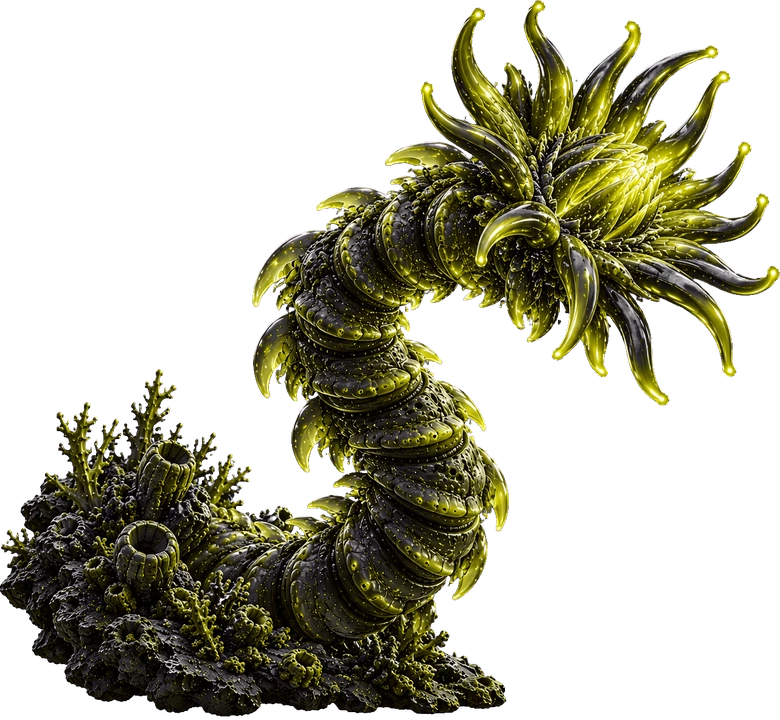
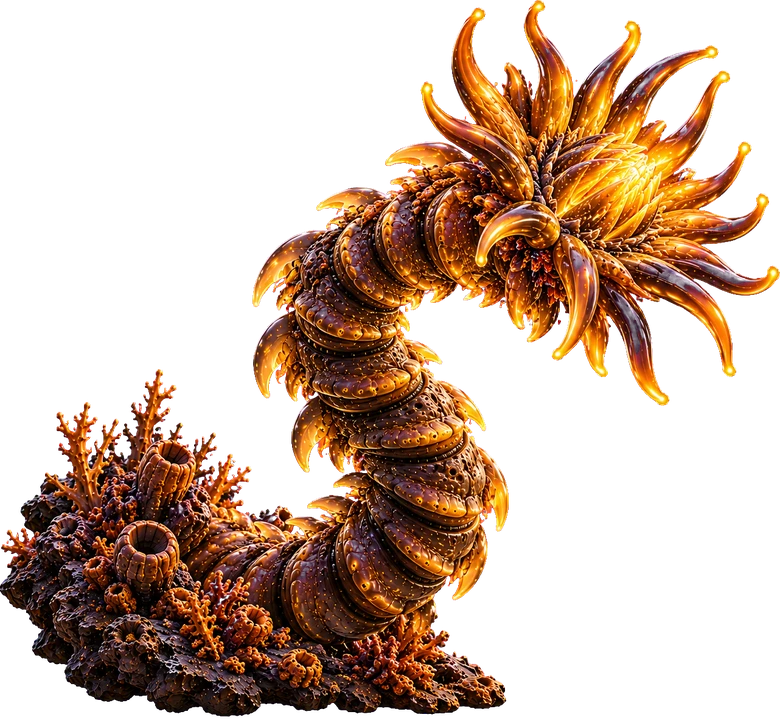
Пасть: модуль, интеграция, перекраска гидры
- js/maw.js: веха-пасть. Зубы у стен, отверстие по центру, смыкание
  по глубине (CLOSE_S, SIGNAL_LEAD). Пуля в зубы гаснет, в отверстие
  пролетает; касание зубов смертельно, щит спасает как от гидры.
- Подключение: index.html, sprites.js, game.js (reset/update/shots/
  hitTest/draw), growth.js (коралы не растут в полосе пасти).
- CONFIG.MAW: ширина 390 px, отверстие 86 -> 48 px.
- Спрайты maw_open/maw_closed, ключевание tools/key_maw.py.
- Гидра: исправлен magenta-despill (кромка only), перекрашена в медь,
  ключевание tools/key_hydra.py.

Симуляция: 32 пасти за 6 прогонов, центр проходим во всех 10 048
проверках, все пасти ставятся в передышке.

Claude-Session: https://claude.ai/code/session_01PpYFCjWNdNRrAcfmkbGt6g

diff --git a/js/maw.js b/js/maw.js
@@ -1,0 +1,168 @@
+// ===== maw.js =====
+// ============================================================
+// ПАСТЬ — веха. Перекрывает ущелье по ширине: зубы стоят у стен, между
+// ними отверстие по центру. По мере приближения дрона зубы сходятся.
+//
+// Правила прохождения (docs/tz_creatures_ru.md, согласованы):
+//   1. Проход всегда возможен, если войти по центру: отверстие не закрывается
+//      ниже HOLE_RX_MIN, то есть 96 px поперёк при дроне 36 px.
+//   2. Смыкание идёт CLOSE_S секунд падения (не меньше 0.5 с).
+//   3. Смыкание начинается до входа: сигнал виден заранее.
+//
+// Прогресс смыкания p — функция глубины, а не таймера. Значит, картинка и
+// хитбокс всегда показывают одно и то же состояние, и пауза ничего не ломает.
+// ============================================================
+
+const Maw = (() => {
+
+  const M = CONFIG.MAW;
+  const W = M.W_PX, HH = M.H_PX;
+  const DR = CONFIG.DRONE_RADIUS;
+
+  let list = [];            // {depth (центр в метрах), xc (центр отверстия, px), alive}
+  let nextSpawn = 0;
+  let armed = false;
+  let _pxPerM = 1;
+  let _v = 250;             // скорость падения, м/с — оценивается по ходу игры
+  let _lastDepth = null;
+
+  function reset() { list = []; nextSpawn = 0; armed = false; _lastDepth = null; }
+
+  function _span(pxPerM) { return HH / pxPerM; }
+
+  // Время смыкания в метрах падения при текущей скорости
+  function _closeM() { return M.CLOSE_S * _v; }
+
+  // Прогресс смыкания 0..1 по глубине дрона. Сигнал начинается заранее:
+  // при входе в пасть смыкание уже на SIGNAL_LEAD.
+  function _p(m, droneDepth, pxPerM) {
+    const top = m.depth - _span(pxPerM) / 2;
+    const cm = _closeM();
+    const start = top - M.SIGNAL_LEAD * cm;
+    let u = (droneDepth - start) / cm;
+    u = Math.max(0, Math.min(1, u));
+    return u * u * (3 - 2 * u);
+  }
+
+  // Полуширина отверстия при прогрессе p
+  function _rx(p) { return M.HOLE_RX + (M.HOLE_RX_MIN - M.HOLE_RX) * p; }
+
+  // ---------- появление ----------
+
+  // Можно ли поставить пасть с центром на глубине dc: вся высота в передышке
+  // и ущелье не уже ширины спрайта
+  function _fit(dc, pxPerM) {
+    const span = _span(pxPerM);
+    const top = Canyon.getWalls(dc - span / 2), bot = Canyon.getWalls(dc + span / 2);
+    if (top.phase !== 'rest' || bot.phase !== 'rest') return null;
+    for (let i = 0; i <= 8; i++) {
+      const w = Canyon.getWalls(dc - span / 2 + span * (i / 8));
+      if (w.hitRight - w.hitLeft < W) return null;
+    }
+    const mid = Canyon.getWalls(dc);
+    return { xc: (mid.hitLeft + mid.hitRight) / 2 };
+  }
+
+  function _maybeSpawn(depth, aheadDepth, pxPerM) {
+    if (Canyon.timeAt(depth) < M.FIRST_AT) return;
+    if (!armed) { armed = true; nextSpawn = depth + M.SPAWN_EVERY * 0.6; }
+
+    while (nextSpawn < aheadDepth) {
+      let placed = null;
+      for (let d = nextSpawn; d < nextSpawn + M.SEARCH_AHEAD; d += 6) {
+        const fit = _fit(d, pxPerM);
+        if (fit) { placed = { d, fit }; break; }
+      }
+      if (!placed) { nextSpawn += M.SEARCH_AHEAD; continue; }
+      list.push({ depth: placed.d, xc: placed.fit.xc, alive: true });
+      nextSpawn = placed.d + M.SPAWN_EVERY;
+    }
+  }
+
+  // ---------- шаг ----------
+
+  function update(depth, aheadDepth, pxPerM, dt) {
+    _pxPerM = pxPerM;
+    // Скорость падения — по ходу игры: смыкание меряется в метрах
+    if (_lastDepth !== null && dt > 0) {
+      const v = (depth - _lastDepth) / dt;
+      if (v > 50 && v < 1000) _v = v;
+    }
+    _lastDepth = depth;
+    _maybeSpawn(depth, aheadDepth, pxPerM);
+    // Пасть ушла за верх экрана целиком
+    const span = _span(pxPerM);
+    list = list.filter(m => m.depth + span / 2 > depth - 10);
+  }
+
+  // ---------- столкновение и выстрел ----------
+
+  function hitTest(droneX, droneDepth, pxPerM) {
+    const span = _span(pxPerM);
+    for (const m of list) {
+      if (droneDepth < m.depth - span / 2 || droneDepth > m.depth + span / 2) continue;
+      const rx = _rx(_p(m, droneDepth, pxPerM));
+      // Зубы сходятся к центру: за пределами отверстия дрон цел только если
+      // целиком внутри него, с учётом своего радиуса
+      if (Math.abs(droneX - m.xc) > rx - DR) return true;
+    }
+    return false;
+  }
+
+  // Пуля в зубы поглощается, в отверстие пролетает. Пасть не убивается.
+  function shootAt(sx, sDepth, pxPerM) {
+    const span = _span(pxPerM);
+    for (const m of list) {
+      if (sDepth < m.depth - span / 2 || sDepth > m.depth + span / 2) continue;
+      const rx = _rx(_p(m, sDepth, pxPerM));
+      if (Math.abs(sx - m.xc) > rx) return { x: sx, y: sDepth };
+    }
+    return null;
+  }
+
+  // Коралы не растут на стенах в полосе пасти
+  function covers(depth, side) {
+    const span = _span(_pxPerM);
+    for (const m of list) {
+      if (depth > m.depth - span / 2 - 6 && depth < m.depth + span / 2 + 6) return true;
+    }
+    return false;
+  }
+
+  // ---------- отрисовка ----------
+
+  function draw(ctx, depth, pxPerM) {
+    const open = Sprites.at('maw_open', W, HH, false);
+    const shut = Sprites.at('maw_closed', W, HH, false);
+    if (!open || !shut) return;   // игра идёт и без картинки; хитбокс остаётся
+    const droneDepth = depth + CONFIG.DRONE_Y / pxPerM;
+    for (const m of list) {
+      const py = (m.depth - depth) * pxPerM;
+      if (py < -HH / 2 - 40 || py > CONFIG.CANVAS_H + HH / 2 + 40) continue;
+      const p = _p(m, droneDepth, pxPerM);
+      ctx.globalAlpha = 1 - p;
+      ctx.drawImage(open, m.xc - W / 2, py - HH / 2, W, HH);
+      ctx.globalAlpha = p;
+      ctx.drawImage(shut, m.xc - W / 2, py - HH / 2, W, HH);
+      ctx.globalAlpha = 1;
+
+      if (M.DEBUG) {
+        ctx.save();
+        ctx.strokeStyle = 'rgba(255,60,60,0.9)';
+        ctx.lineWidth = 1;
+        const rx = _rx(p);
+        ctx.beginPath();
+        ctx.moveTo(m.xc - rx, py - HH / 2); ctx.lineTo(m.xc - rx, py + HH / 2);
+        ctx.moveTo(m.xc + rx, py - HH / 2); ctx.lineTo(m.xc + rx, py + HH / 2);
+        ctx.stroke();
+        ctx.restore();
+      }
+    }
+  }
+
+  function count() { return list.length; }
+  function items() { return list; }
+
+  return { reset, update, hitTest, shootAt, covers, draw, count, list: items };
+
+})();

diff --git a/js/game.js b/js/game.js
@@ -51,6 +51,8 @@ const Game = (() => {
       { name: 'nest_base', w: CONFIG.NEST.BASE_OUT, h: CONFIG.NEST.BASE_PX, flip: true },
       { name: 'hydra_idle',   w: CONFIG.HYDRA.W_PX, h: CONFIG.HYDRA.H_PX },
       { name: 'hydra_strike', w: CONFIG.HYDRA.W_PX, h: CONFIG.HYDRA.H_PX },
+      { name: 'maw_open',     w: CONFIG.MAW.W_PX,   h: CONFIG.MAW.H_PX },
+      { name: 'maw_closed',   w: CONFIG.MAW.W_PX,   h: CONFIG.MAW.H_PX },
       { name: 'eel_burrow', w: CONFIG.EEL.BURROW_W, h: CONFIG.EEL.BURROW_H },
       { name: 'eel_burrow', w: CONFIG.EEL.BURROW_W, h: CONFIG.EEL.BURROW_H, flip: true },
       { name: 'eel_body',   w: CONFIG.EEL.BODY_W,   h: CONFIG.EEL.BODY_H },
@@ -87,6 +89,7 @@ const Game = (() => {
     Swarm.reset();
     Nest.reset();
     Hydra.reset();
+    Maw.reset();
     Eel.reset();
     _elapsed = 0;
     running = true;
@@ -289,6 +292,7 @@ const Game = (() => {
     Swarm.update(depth, aheadDepth, dt);
     Nest.update(depth, aheadDepth, PX_PER_M, dt);
     Hydra.update(depth, aheadDepth, PX_PER_M, dt);
+    Maw.update(depth, aheadDepth, PX_PER_M, dt);
     const droneDepthNow = depth + (CONFIG.DRONE_Y / PX_PER_M);
     // Угрю нужны дрон и скорость падения: он бьёт по месту и подгадывает
     // момент под подход, а не живёт по своему секундомеру
@@ -329,6 +333,9 @@ const Game = (() => {
       if (hn) { _spark(hn.x, hn.y, '#cfe8ff'); sh.dead = true; continue; }
       const hh = Hydra.shootAt(sh.x, sh.depth, PX_PER_M);
       if (hh) { _spark(hh.x, hh.y, '#ffb070'); sh.dead = true; continue; }
+      // Пасть: пуля в зубы гаснет, в отверстие пролетает. Сама пасть не умирает.
+      const hm = Maw.shootAt(sh.x, sh.depth, PX_PER_M);
+      if (hm) { _spark(hm.x, hm.y, '#ffb070'); sh.dead = true; continue; }
       const he = Eel.shootAt(sh.x, sh.depth, PX_PER_M, _elapsed);
       if (he) {
         _spark(he.x, he.y, he.kind === 'eye' ? '#ff6a4a' : '#cfe8ff');
@@ -383,6 +390,10 @@ const Game = (() => {
     // Гидра. Щит спасает, но тварь не убивается и не уходит — выталкиваться
     // придётся игроку, как и от гнезда.
     if (Hydra.hitTest(Drone.x, droneDepth, PX_PER_M) && shieldTime <= 0) _crash('eaten');
+
+    // Пасть. Зубы сходятся к центру: за пределами отверстия дрон погибает.
+    // Щит спасает так же, как от гидры — тварь не убивается.
+    if (Maw.hitTest(Drone.x, droneDepth, PX_PER_M) && shieldTime <= 0) _crash('eaten');
 
     // Угорь. Щит спасает так же, как от гнезда: тварь не расстреливается
     // и никуда не девается, выталкиваться игроку придётся самому.
@@ -683,6 +694,7 @@ const Game = (() => {
     Pickups.draw(ctx, depth, PX_PER_M, CONFIG.DRONE_Y);
     Nest.draw(ctx, depth, PX_PER_M, _elapsed);
     Hydra.draw(ctx, depth, PX_PER_M);
+    Maw.draw(ctx, depth, PX_PER_M);
     Eel.draw(ctx, depth, PX_PER_M, _elapsed);
     Swarm.draw(ctx, depth, PX_PER_M, _elapsed);
 

diff --git a/js/config.js b/js/config.js
@@ -430,6 +430,22 @@ const CONFIG = {
   // ширины коридора как clear - GAP_MIN, поэтому просвет не бывает меньше
   // обещанного НИКОГДА — не по замеру, а по построению. Заодно это снимает
   // кольцевую зависимость: ущелье не обязано раздвигаться под тварь.
+  // ПАСТЬ — веха, перекрывает ущелье по ширине. Отверстие по центру, зубы
+  // сходятся к центру по мере приближения дрона. Правила прохождения — в
+  // docs/tz_creatures_ru.md: проход всегда возможен, если войти по центру.
+  MAW: {
+    FIRST_AT: 24,            // с падения
+    SPAWN_EVERY: 1200,       // м между пастями
+    SEARCH_AHEAD: 900,       // м поиска передышки
+    W_PX: 390,               // ширина спрайта = ширина передышки
+    H_PX: 394,               // высота спрайта (720x728 -> 390 по ширине)
+    HOLE_RX: 86,             // px: полуширина отверстия в открытом виде
+    HOLE_RX_MIN: 48,         // px: полуширина в сомкнутом виде (проход 96 px по центру)
+    CLOSE_S: 0.8,            // с падения на полное смыкание, не меньше 0.5
+    SIGNAL_LEAD: 0.5,        // доля смыкания, которая уже идёт до входа в пасть
+    DEBUG: false,
+  },
+
   // ГИДРА — живая тварь на стене. Спрайт жёсткий, поэтому движение — поворот
   // вокруг основания. Геометрия снята скриптом по самой картинке
   // (key_hydra.py): точка крепления, центр короны, кончики щупалец, стебель.

diff --git a/js/growth.js b/js/growth.js
@@ -67,6 +67,7 @@ const Growth = (() => {
     // одно на всю игру — испытания не складываются.
     if (typeof Nest !== 'undefined' && Nest.covers(depth, side)) return 0;
     if (typeof Hydra !== 'undefined' && Hydra.covers(depth, side)) return 0;
+    if (typeof Maw !== 'undefined' && Maw.covers(depth, side)) return 0;
 
     // На норе угря — тем более. Единственное предупреждение, которое есть
     // у игрока, — это светящийся глаз в устье. Коралл поверх норы его

diff --git a/js/sprites.js b/js/sprites.js
@@ -35,6 +35,8 @@ const Sprites = (() => {
     nest_tentacle: 'assets/creatures/nest_tentacle.webp',
     hydra_idle:    'assets/creatures/hydra_idle.webp',
     hydra_strike:  'assets/creatures/hydra_strike.webp',
+    maw_open:      'assets/creatures/maw_open.webp',
+    maw_closed:    'assets/creatures/maw_closed.webp',
     eel_head:      'assets/creatures/eel_head.webp',
     eel_body:      'assets/creatures/eel_body.webp',
     // Нора уже тонирована кривой стены при сборке, а не в игре: она одна,

diff --git a/index.html b/index.html
@@ -58,6 +58,7 @@
   <script src="js/swarm.js"></script>
   <script src="js/nest.js"></script>
   <script src="js/hydra.js"></script>
+  <script src="js/maw.js"></script>
   <script src="js/eel.js"></script>
   <script src="js/screens.js"></script>
   <script src="js/game.js"></script>

diff --git a/tools/key_maw.py b/tools/key_maw.py
@@ -1,0 +1,51 @@
+# Вырезает фон из исходников пасти (открытая и сомкнутая) в общей рамке.
+# Фон магента (#FF00FF). Запуск из корня репозитория: python3 tools/key_maw.py
+import os
+import numpy as np
+from PIL import Image
+
+ROOT = os.path.join(os.path.dirname(os.path.abspath(__file__)), '..')
+SRC = os.path.join(ROOT, 'assets/sprites/src') + '/'
+OUT = os.path.join(ROOT, 'assets/creatures') + '/'
+S_OUT = 720  # сторона выходного спрайта, px
+
+
+def _despill_magenta(r, g, b, alpha):
+    # гасим магентовую кайму только на кромке (полупрозрачные пиксели);
+    # внутренность спрайта не трогаем, иначе янтарь уходит в красный
+    edge = alpha < 250
+    r2 = np.where(edge, np.minimum(r, g * 1.2 + 12), r)
+    b2 = np.where(edge, np.minimum(b, g * 1.2 + 12), b)
+    return r2, b2
+
+
+def key(path):
+    im = np.asarray(Image.open(path).convert('RGB')).astype(np.float32)
+    r, g, b = im[..., 0], im[..., 1], im[..., 2]
+    excess = np.minimum(r, b) - g
+    alpha = 255 * (1 - np.clip((excess - 25) / 55, 0, 1))
+    r2, b2 = _despill_magenta(r, g, b, alpha)
+    out = np.stack([r2, g, b2, alpha], -1)
+    out[..., :3] = np.where((alpha > 0)[..., None], out[..., :3], 0)
+    return out.clip(0, 255).astype(np.uint8)
+
+
+def main():
+    keyed = {n: key(SRC + f'maw_{n}_src.png') for n in ['open', 'closed']}
+    boxes = []
+    for rgba in keyed.values():
+        ys, xs = np.where(rgba[..., 3] > 8)
+        boxes.append((xs.min(), xs.max() + 1, ys.min(), ys.max() + 1))
+    X0 = min(b[0] for b in boxes); X1 = max(b[1] for b in boxes)
+    Y0 = min(b[2] for b in boxes); Y1 = max(b[3] for b in boxes)
+    w, h = X1 - X0, Y1 - Y0
+    W = S_OUT
+    H = round(h * S_OUT / w) if w >= h else S_OUT
+    for name, rgba in keyed.items():
+        crop = rgba[Y0:Y1, X0:X1]
+        img = Image.fromarray(crop, 'RGBA').resize((S_OUT, round(S_OUT * h / w)), Image.LANCZOS)
+        img.save(OUT + f'maw_{name}.webp', 'WEBP', quality=92)
+        print(name, img.size)
+
+
+main()

diff --git a/tools/key_hydra.py b/tools/key_hydra.py
@@ -27,9 +27,11 @@ def key(path):
         excess = g - np.maximum(r, b)           # насколько зелёный сильнее красного и синего
     alpha = 255 * (1 - np.clip((excess - 25) / 55, 0, 1))
     if bg_kind(im) == 'magenta':
+        # магентовую кайму гасим только на кромке, внутренность не трогаем
+        edge = alpha < 250
+        r2 = np.where(edge, np.minimum(r, g * 1.2 + 12), r)
+        b2 = np.where(edge, np.minimum(b, g * 1.2 + 12), b)
         g2 = g
-        r2 = np.minimum(r, g + 4 + 0 * r)       # гасим магентовую кайму
-        b2 = np.minimum(b, g + 4 + 0 * b)
     else:
         g2 = np.minimum(g, np.maximum(r, b) + 4)
         r2, b2 = r, b
